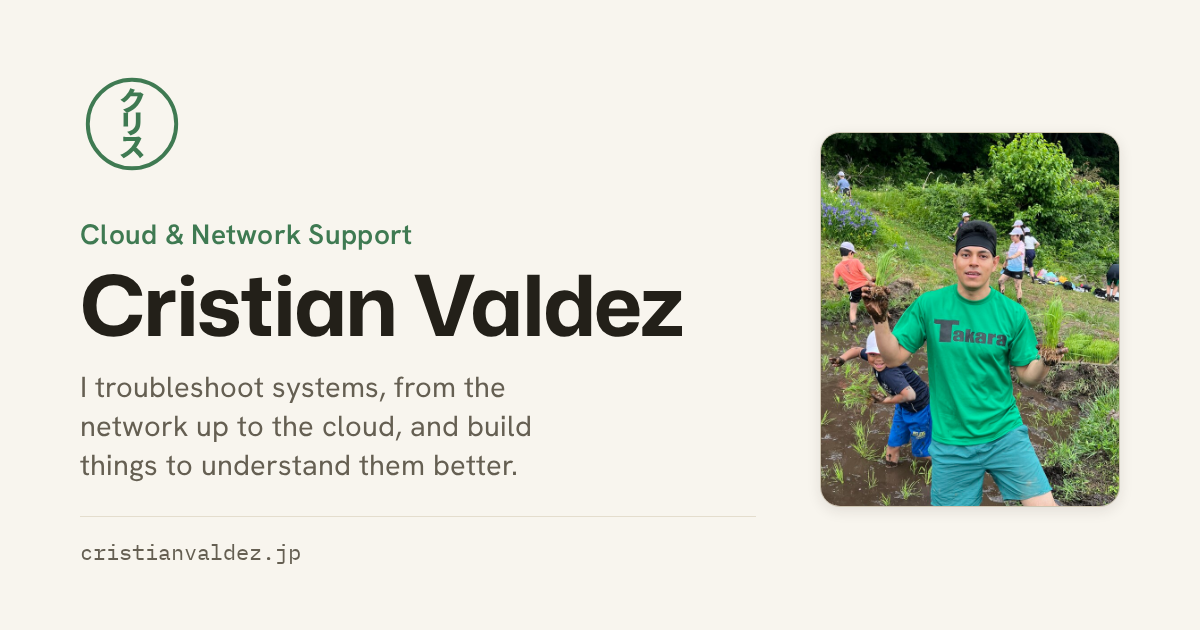
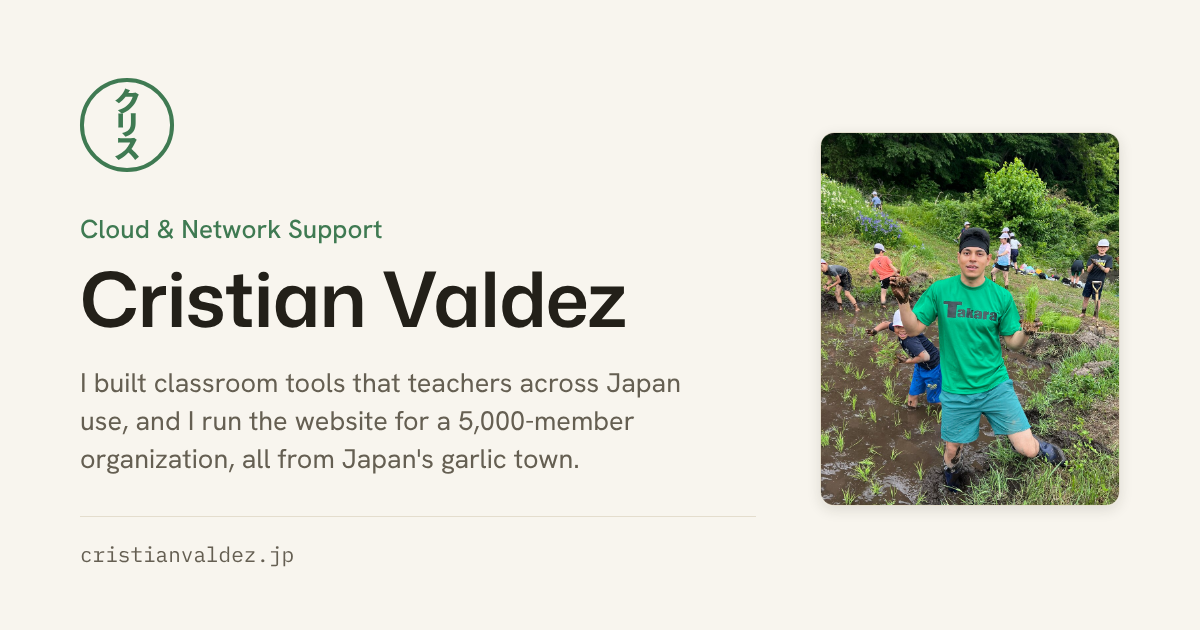
Rewrite headline around shipped work and Takko
Replace the generic network-to-cloud tagline with concrete proof
(classroom tools, AJET site) and the garlic-town hook, in EN and JA.
Update the meta summaries and regenerate the OG share card to match.

Claude-Session: https://claude.ai/code/session_01WGEZ5DAnHkGbob7W6oZGDM

diff --git a/src/data/resume.ts b/src/data/resume.ts
@@ -116,13 +116,13 @@ export const resume: Record<Lang, ResumeContent> = {
   en: {
     about: {
       role: 'Cloud & Network Support',
-      tagline: 'I troubleshoot systems, from the network up to the cloud, and build things to understand them better.',
+      tagline: 'I built classroom tools that teachers across Japan use, and I run the website for a 5,000-member organization, all from Japan\'s garlic town.',
       town: 'Takko',
       location: 'Aomori, Japan',
       relocation: 'Open to relocating anywhere in Japan',
       imageAlt: 'Cristian planting rice with local students at a community rice-planting class in Aomori',
       summary:
-        'Cristian Valdez troubleshoots systems from the network up to the cloud. American IT professional based in Aomori, Japan, CCNA certified, with business-level Japanese (JLPT N2). Open to relocating anywhere in Japan.',
+        'Cristian Valdez builds classroom tools used by teachers across Japan and runs the website for a 5,000-member organization. American IT professional based in Takko, Aomori, CCNA certified, with business-level Japanese (JLPT N2). Open to relocating anywhere in Japan.',
       paragraphs: [
         "I'm an American living in Aomori, Japan. I came over in 2023 to teach on the <a href=\"https://jetprogramme.org\">JET Programme</a>, but I never stopped making things and messing with tech on the side. Personal projects have been a constant the whole time, and I keep learning whatever a project needs or whatever I happen to be curious about. As my time on JET comes to a close, I'm looking to move back into tech here in Japan, in IT support, networking, or cloud infrastructure, and I'm open to relocating anywhere in the country.",
         "Mostly I just build things for myself: whatever would actually be useful, or whatever I want to understand better. That might be <a href=\"https://takkotaco.com/game/\">tools for the classroom</a>, a place to <a href=\"https://bloggydoggy.com\">express myself</a>, or a quick fix for something annoying, like a Chrome extension or a custom keyboard. I like being able to customize and tinker, and I'm not satisfied until I get something exactly how I want it.",
@@ -258,13 +258,13 @@ export const resume: Record<Lang, ResumeContent> = {
   ja: {
     about: {
       role: 'クラウド・ネットワークサポート',
-      tagline: 'ネットワークからクラウドまで、システムのトラブルを解決しています。仕組みを理解するために、自分でもいろいろ作っています。',
+      tagline: '全国の先生が使う授業用ツールを作り、会員5,000人以上の団体のウェブサイトを運営しています。すべて、にんにくの町・田子町から。',
       town: '田子町',
       location: '青森県、日本',
       relocation: '日本国内どこでも転居可能',
       imageAlt: '青森の地域の田植え教室で、地元の生徒たちと田植えをするクリスチャン',
       summary:
-        'Cristian Valdez（クリスチャン・バルデス）は、ネットワークからクラウドまで、システムのトラブル解決に取り組むアメリカ出身のITエンジニアです。青森県在住、CCNA取得、ビジネスレベルの日本語（JLPT N2）。日本国内であればどこへでも転居可能です。',
+        'Cristian Valdez（クリスチャン・バルデス）は、全国の先生が使う授業用ツールを開発し、会員5,000人以上の団体のウェブサイトを運営する、アメリカ出身のITエンジニアです。青森県田子町在住、CCNA取得、ビジネスレベルの日本語（JLPT N2）。日本国内であればどこへでも転居可能です。',
       paragraphs: [
         '青森県に住んでいる、アメリカ出身です。2023年に<a href="https://jetprogramme.org">JETプログラム</a>の外国語指導助手として来日しましたが、その後もものづくりや技術いじりの手を止めることはありませんでした。個人プロジェクトはずっと続けてきていて、プロジェクトに必要なことや、その時々で気になったことを学び続けています。JETでの任期が終わりに近づいた今、日本でITの世界へ戻ろうと考えていて、ITサポート、ネットワーク、クラウドインフラの分野を目指しています。日本国内であれば、どこへでも転居できます。',
         '基本的には、自分のために物を作っています。実際に役立つものだったり、もっと深く理解したいと思ったものだったりです。たとえば<a href="https://takkotaco.com/game/">授業で使えるツール</a>だったり、<a href="https://bloggydoggy.com">自分を表現する場所</a>だったり、Chrome拡張機能や自作キーボードのように、ちょっとした面倒を解決するものだったりします。自分好みにカスタマイズしたり、いじったりするのが好きで、思い通りになるまで納得できない性格です。',
